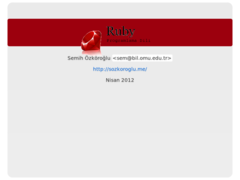
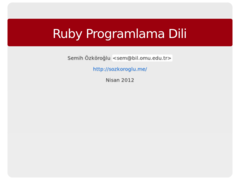
media sil

Changed region(s): [[0.2042, 0.1389, 0.7875, 0.3056]]

diff --git a/p/ruby/index.html b/p/ruby/index.html
@@ -27,7 +27,7 @@
     <meta http-equiv="X-UA-Compatible" content="chrome=1" />
     <meta name="apple-mobile-web-app-capable" content="yes" />
     <meta id="viewport" name="viewport" content="user-scalable=no" />
-    <title><img alt="Ruby Programlama" src="media/ruby-logo.gif" /></title>
+    <title>Ruby Programlama Dili</title>
     <!-- Styles -->
     
     <style type="text/css" media="print">
@@ -1609,7 +1609,7 @@ _gaq.push(['_trackPageview']);
         <div class="slide first">
           <div class="inner">
             
-            <header><h1><img alt="Ruby Programlama" src="media/ruby-logo.gif" /></h1></header>
+            <header><h1>Ruby Programlama Dili</h1></header>
             
             
             <section><p>Semih Özköroğlu <code>&lt;sem@bil.omu.edu.tr&gt;</code></p>
@@ -1973,7 +1973,7 @@ _gaq.push(['_trackPageview']);
       <caption>Table of Contents</caption>
       
       <tr id="toc-row-1">
-        <th><a href="#slide1"><img alt="Ruby Programlama" src="media/ruby-logo.gif" /></a></th>
+        <th><a href="#slide1">Ruby Programlama Dili</a></th>
         <td><a href="#slide1">1</a></td>
       </tr>
       
